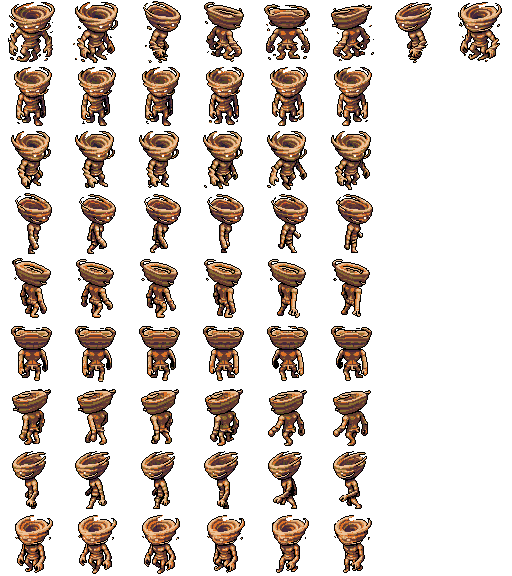
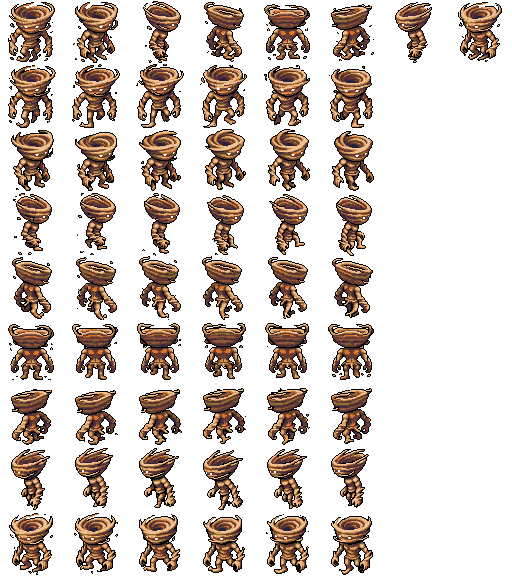
Switch desert_sand_spirit walk from template to v3
Template walk gave the limbless vortex walking legs; v3 hover-drift keeps
the idle size (walk/idle bbox ratio 1.00). Handoff updated for the snow
witch east-direction re-roll.

Claude-Session: https://claude.ai/code/session_016PUWeHFa5hxBbma7ceDCsG

Changed region(s): [[0.0, 0.0938, 0.75, 1.0]]

diff --git a/assets/characters/ASSET_REGISTRY.md b/assets/characters/ASSET_REGISTRY.md
@@ -255,9 +255,16 @@ via `reduce_colors` against `assets/palettes/db32.png`).
   trailing tendrils split into two vertical shapes that could read as legs at a glance** — flagging
   for explicit user check on that one direction specifically. Overall a large improvement over
   attempt 1. **User accepted** the rewritten amorphous version (batch review).
-- Walk `animation_group_id`: `f7f9c8a8-65ff-426e-9116-ec0e57a87d86` (template `walk`, all 8
-  directions). `reduce_colors` against DB32 done locally (see forest_ant note). All 56 frames:
-  **0 off-palette opaque pixels**. Atlas saved:
+- Walk (superseded): template `walk` group `f7f9c8a8-...` — grew walking legs on the limbless
+  vortex; deleted.
+- Walk (current): `animation_group_id` `ba88e9fc-4dfd-4b6e-b508-8a1276d5921e`, `mode="v3"` custom,
+  `frame_count=6`, `keep_first_frame=false`, all 8 directions, action "drifting forward while
+  hovering, sand vortex swirling and spinning, no legs, no walking, no steps, keeps the same size
+  as the idle pose". Cropped to 64x64 with one offset per direction (4 opaque px clipped).
+  walk/idle ratio **1.00**. DB32 0 off-palette. Rebuilt via `tools/process_pixellab_zip.py`.
+  My QA: funnel spins and keeps its idle facing in every direction; **in S/SE/SW the two lower
+  sand tendrils (already leg-like in the accepted idle) swing alternately and can read as small
+  steps** — needs explicit user check; re-roll those directions if rejected. Atlas:
   `assets/characters/desert_sand_spirit/desert_sand_spirit_Idle.{png,json}`.
 
 ### winter_ice_goblin — GDD "Ледяной гоблин" (Биом 3 — Зима)
@@ -416,17 +423,19 @@ walk/idle ratio, builds the atlas). Target ratio ~0.9-1.05.
 Done with v3 walk (atlas on disk is final): forest_ant (0.97), deadlands_bone_golem (0.95),
 deadlands_skeleton (1.03, NW re-rolled for a flipping shield), winter_ice_spirit (0.98, NE
 re-rolled for a darkening core), desert_mummy (1.03), deadlands_ghost (1.03), winter_ice_goblin
-(0.99, 13 px clipped, all 8 dirs match idle facing, sword visible in every direction).
+(0.99, 13 px clipped, all 8 dirs match idle facing, sword visible in every direction),
+desert_sand_spirit (1.00; S/SE/SW tendril sway flagged for user check).
 
 Still to finish (atlases on disk are the OLD shrunken template-walk versions):
 - winter_snow_witch `7f896095-bfc7-4657-a29d-4623aa5d4497`, v3 group `f9189508-8db5-4ddf-8f3a-d7f954176918`,
-  all 8 directions queued (south-west appended to the same group). Action: "slow gliding walk with long flowing frozen
-  robes swaying, gripping the ice-crystal staff firmly and keeping it clearly visible, body keeps
-  the same size and proportions as the standing pose".
-- desert_sand_spirit `843a2b88-7d00-479d-bb1a-30e2d80bfe3f`, v3 group `ba88e9fc-4dfd-4b6e-b508-8a1276d5921e`,
-  5/8 queued (S, SE, E, NE, N) — **NW, W, SW not queued yet** (job-slot limit). Action:
-  "drifting forward while hovering, sand vortex swirling and spinning, no legs, no walking, no
-  steps, keeps the same size as the idle pose".
+  7/8 directions done and good (ratio 1.06, 0 px clipped). Action: "slow gliding walk with long
+  flowing frozen robes swaying, gripping the ice-crystal staff firmly and keeping it clearly
+  visible, body keeps the same size and proportions as the standing pose". **East re-rolled
+  twice**: idle east hides the staff behind the body and v3 kept making it pop in mid-cycle;
+  third try uses "the staff stays on the far side hidden behind the body in every frame exactly
+  as in the standing pose, no new objects appear" (delete one direction with
+  `delete_animation(..., animation_group_id=..., direction="east")`, then re-animate into the
+  same group).
 - winter_yeti (0.87) and forest_wolf (dog template, 0.89) left on template walk — within range.
 After each finishes: run process_pixellab_zip.py, eyeball the preview for per-direction
 glitches, update the entry above.
